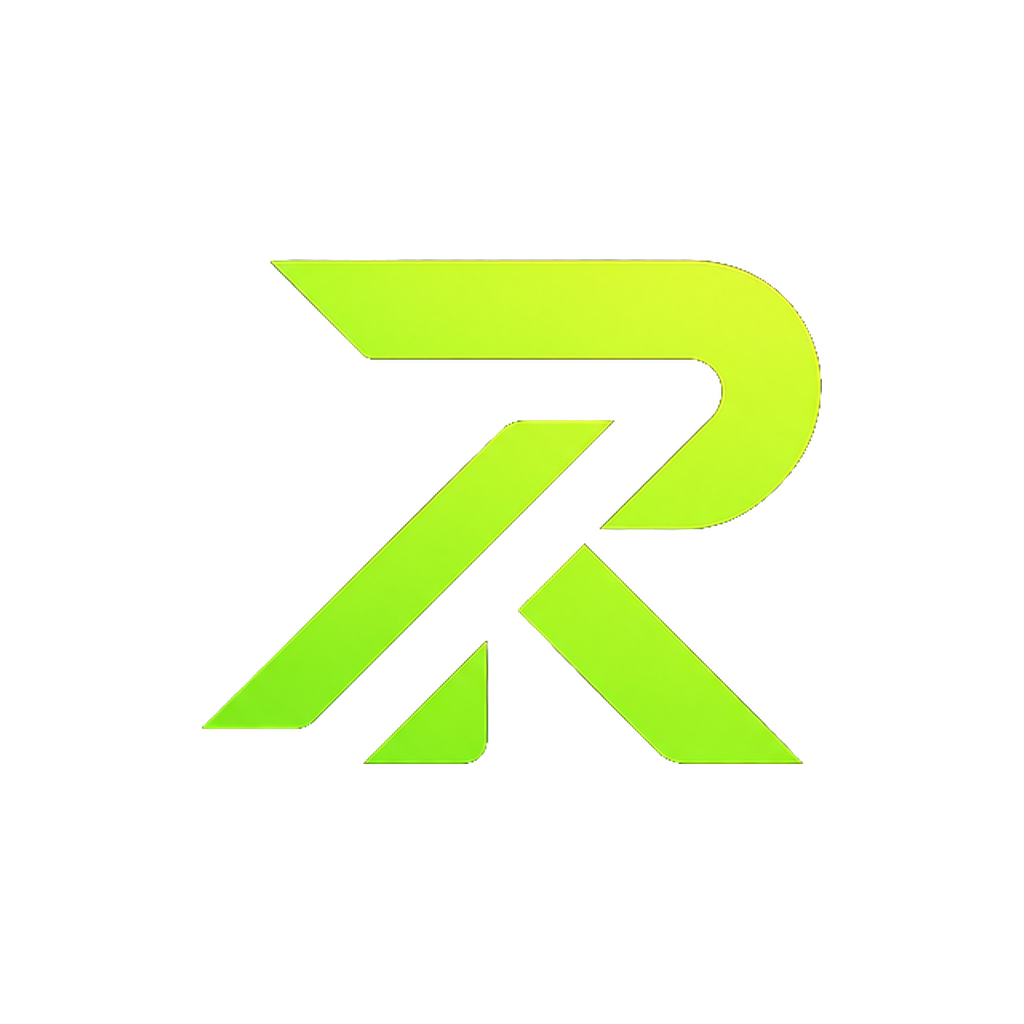
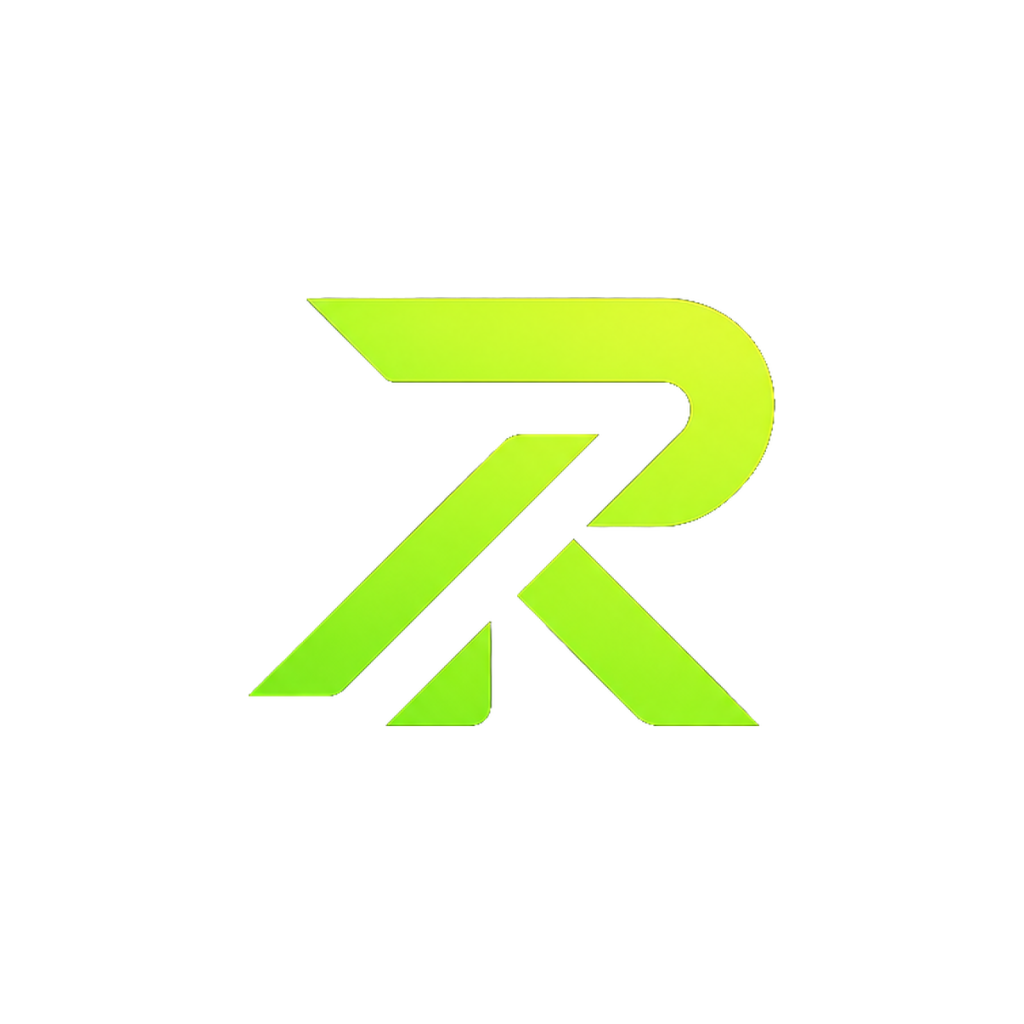
fix(movil): el icono adaptativo cabia fuera de lo que Android enseña
Android dibuja el primer plano sobre un lienzo de 108 dp y solo enseña
los 72 dp centrales, con una mascara que en la mayoria de telefonos es un
circulo. Sobre 1024 px ese circulo tiene 341 px de radio.

El dibujo llegaba a 384: las puntas de la R se cortaban. No es una
sospecha, se vio aplicando las tres mascaras —circulo, squircle y
cuadrado redondeado— sobre el fondo de marca.

  ANTES    caja 620x505   centro (0, -1)   radio maximo 384   se sale 43
  DESPUES  caja 528x430   centro (0,  0)   radio maximo 326   sobran 15

El simbolo NO se ha redibujado: es el mismo fichero reducido al 85 % y
recentrado en el mismo lienzo de 1024, con la transparencia intacta y sin
fondo. El grafito lo sigue poniendo Expo.

El reescalado usa promediado por AREA y alfa PREMULTIPLICADA. Sin
premultiplicar, al reducir se promedia el color de los pixeles
transparentes con el del borde y aparece una orla oscura alrededor de la
R; multiplicando por alfa antes y dividiendo despues, lo invisible no
pesa. De paso el centrado pasa a ser exacto: antes estaba 1 px alto.

Comprobado con `expo prebuild --platform android`, que en Windows si
funciona: `ic_launcher.xml` compone `@color/iconBackground` (#0D0F12) con
`ic_launcher_foreground`, y los cinco `splashscreen_logo` siguen ahi.

El guard nuevo descomprime el PNG y busca el pixel dibujado mas lejano
del centro. Visto en rojo con el fichero anterior: "el dibujo llega a 384
px y la mascara corta en 341".

`icon.png` y `splash.png` NO se tocan.
[…]

diff --git a/apps/mobile/src/configuracion-nativa.test.ts b/apps/mobile/src/configuracion-nativa.test.ts
@@ -1,5 +1,6 @@
 import { describe, expect, it } from 'vitest';
 import { existsSync, readFileSync } from 'node:fs';
+import { inflateSync } from 'node:zlib';
 import { join } from 'node:path';
 import { createRequire } from 'node:module';
 
@@ -17,6 +18,74 @@ function cabeceraPng(buf: Buffer) {
     profundidad: buf[24],
     tipoColor: buf[25],
   };
+}
+
+/**
+ * El pixel dibujado mas lejano del centro, en pixeles.
+ *
+ * Hay que descomprimir el PNG y deshacer el filtro de cada linea: no hay otra
+ * forma de saber donde acaba el dibujo de verdad. Son ~50 lineas y evitan
+ * meter una libreria de imagen en las dependencias por un solo test.
+ */
+function radioDelDibujo(buf: Buffer): number {
+  const { ancho, alto, profundidad, tipoColor } = cabeceraPng(buf);
+  if (profundidad !== 8 || (tipoColor !== 6 && tipoColor !== 4)) {
+    throw new Error('se esperaba un PNG de 8 bits con canal alfa');
+  }
+  const bpp = tipoColor === 6 ? 4 : 2;
+
+  const idat: Buffer[] = [];
+  for (let i = 8; i < buf.length; ) {
+    const largo = buf.readUInt32BE(i);
+    if (buf.toString('ascii', i + 4, i + 8) === 'IDAT') {
+      idat.push(buf.subarray(i + 8, i + 8 + largo));
+    }
+    i += 12 + largo;
+  }
+  const crudo = inflateSync(Buffer.concat(idat));
+
+  const porLinea = ancho * bpp;
+  const plano = Buffer.alloc(alto * porLinea);
+  let origen = 0;
+  for (let y = 0; y < alto; y++) {
+    const filtro = crudo[origen++];
+    const linea = crudo.subarray(origen, origen + porLinea);
+    origen += porLinea;
+    const destino = plano.subarray(y * porLinea, (y + 1) * porLinea);
+    const arriba =
+      y > 0 ? plano.subarray((y - 1) * porLinea, y * porLinea) : Buffer.alloc(porLinea);
+    for (let x = 0; x < porLinea; x++) {
+      const a = x >= bpp ? destino[x - bpp]! : 0;
+      const b = arriba[x]!;
+      const c = x >= bpp ? arriba[x - bpp]! : 0;
+      const v = linea[x]!;
+      let valor: number;
+      if (filtro === 0) valor = v;
+      else if (filtro === 1) valor = v + a;
+      else if (filtro === 2) valor = v + b;
+      else if (filtro === 3) valor = v + ((a + b) >> 1);
+      else {
+        const p = a + b - c;
+        const pa = Math.abs(p - a);
+        const pb = Math.abs(p - b);
+        const pc = Math.abs(p - c);
+        valor = v + (pa <= pb && pa <= pc ? a : pb <= pc ? b : c);
+      }
+      destino[x] = valor & 0xff;
+    }
+  }
+
+  let mayor = 0;
+  for (let y = 0; y < alto; y++) {
+    for (let x = 0; x < ancho; x++) {
+      // Alfa por encima de un umbral bajo: el antialiasing del borde no cuenta.
+      if (plano[(y * ancho + x) * bpp + bpp - 1]! > 8) {
+        const d = Math.hypot(x - ancho / 2, y - alto / 2);
+        if (d > mayor) mayor = d;
+      }
+    }
+  }
+  return mayor;
 }
 
 /**
@@ -129,6 +198,34 @@ describe('los assets de marca estan puestos y son los correctos', () => {
     const { ancho, alto } = cabeceraPng(png);
     expect(ancho).toBe(1024);
     expect(alto).toBe(1024);
+  });
+
+  /*
+   * ┌──────────────────────────────────────────────────────────────────────┐
+   * │ EL ICONO ADAPTATIVO SE ENMASCARA, Y LO QUE SE SALE SE PIERDE.       │
+   * │                                                                      │
+   * │ Android dibuja el primer plano sobre un lienzo de 108 dp y solo      │
+   * │ enseña los 72 dp centrales, con una mascara que en muchos telefonos  │
+   * │ es un circulo. Sobre 1024 px, ese circulo tiene 341 px de radio.     │
+   * │                                                                      │
+   * │ El fichero que entrego diseño llegaba a 384 px: las puntas de la R   │
+   * │ se cortaban. Se comprobo mirandolo con las tres mascaras. Reducido   │
+   * │ al 85 % llega a 326 y cabe entero.                                   │
+   * │                                                                      │
+   * │ Esto no se ve hasta tener el telefono en la mano, y para entonces el │
+   * │ icono ya esta instalado. Por eso se comprueba aqui.                  │
+   * └──────────────────────────────────────────────────────────────────────┘
+   */
+  it('el dibujo del icono adaptativo cabe en la zona que Android enseña', () => {
+    const png = readFileSync(rutaDe(base.android.adaptiveIcon.foregroundImage));
+    const { ancho } = cabeceraPng(png);
+    // Los 72 dp visibles de los 108 del lienzo, como radio.
+    const radioSeguro = (ancho * 72) / 108 / 2;
+    const radio = radioDelDibujo(png);
+    expect(
+      radio,
+      `el dibujo llega a ${Math.round(radio)} px y la mascara corta en ${Math.round(radioSeguro)}`,
+    ).toBeLessThanOrEqual(radioSeguro);
   });
 
   it('los dos fondos de marca son el grafito del tema', () => {
